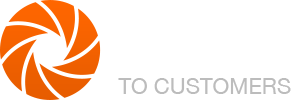
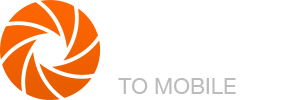
Website redesign

Changed region(s): [[0.51, 0.78, 0.99, 0.96]]

diff --git a/index.html b/index.html
@@ -1,31 +1,16 @@
 <!DOCTYPE html>
 <html lang="en">
 <head>
-  <!-- Google Analytics Content Experiment code -->
-  <script>function utmx_section(){}function utmx(){}(function(){var
-  k='62367427-5',d=document,l=d.location,c=d.cookie;
-  if(l.search.indexOf('utm_expid='+k)>0)return;
-  function f(n){if(c){var i=c.indexOf(n+'=');if(i>-1){var j=c.
-  indexOf(';',i);return escape(c.substring(i+n.length+1,j<0?c.
-  length:j))}}}var x=f('__utmx'),xx=f('__utmxx'),h=l.hash;d.write(
-  '<sc'+'ript src="'+'http'+(l.protocol=='https:'?'s://ssl':
-  '://www')+'.google-analytics.com/ga_exp.js?'+'utmxkey='+k+
-  '&utmx='+(x?x:'')+'&utmxx='+(xx?xx:'')+'&utmxtime='+new Date().
-  valueOf()+(h?'&utmxhash='+escape(h.substr(1)):'')+
-  '" type="text/javascript" charset="utf-8"><\/sc'+'ript>')})();
-  </script><script>utmx('url','A/B');</script>
-  <!-- End of Google Analytics Content Experiment code -->
-  
   <meta charset="utf-8">
-  <title>Shortcut - Getting on Your Customer&#39;s Smartphone</title>
+  <title>Shortcut - The Smarter Link</title>
   <meta name="viewport" content="width=device-width, initial-scale=1">
   <meta name="author" content="Shortcut Media AG Zurich">
-  <meta name="description" content="Shortcut is your mobile marketing platform that helps you to bridge the gap between your offline and online media. It provides you with all the possible technology to perfectly fit all your needs. Technologies include Image Recognition, iBeacons, QR Codes, Bar Codes, or NFC Tags. You can all manage easily via one online manager. Get started today, it's free.">
+  <meta name="description" content="Link to any device on any platform via any touch point and track usage.">
 
-  <meta property="og:title" content="Reach your customers on their smartphones" />
+  <meta property="og:title" content="The Smarter Link" />
   <meta property="og:url" content="http://shortcutmedia.com" />
-  <meta property="og:site_name" content="Getting on Your Customer&#39;s Smartphone"/>
-  <meta property="og:description" content="Shortcut is your mobile marketing platform that helps you to bridge the gap between your offline and online media. It provides you with all the possible technology to perfectly fit all your needs. Technologies include Image Recognition, iBeacons, QR Codes, Bar Codes, or NFC Tags. You can all manage easily via one online manager. Get started today, it's free." />
+  <meta property="og:site_name" content="Shortcut"/>
+  <meta property="og:description" content="Link to any device on any platform via any touch point and track usage." />
   <meta property="fb:app_id" content="176995982338808" />
   <meta property="og:type" content="website" />
   <meta property="og:image" content="http://shortcutmedia.com/assets/img/get_on_customers_smartphone.png" />
@@ -119,14 +104,16 @@
         <div class="container-fluid ">
           <div class="row">
             <div class="col-md-8 col-sm-8 col-xs-12">
-              <h1>Getting on Your Customer&#39;s Smartphone</h1>
+              <h1>The Smarter Link</h1>
             </div>
           </div> <!-- row -->
           <div class="row">
-            <div class="col-md-8 col-sm-10 col-xs-12">  
-              <p>
-                Shortcut helps you to make successful mobile marketing campaigns with one goal: <strong>to reach your customers on their smartphones.</strong>
-              </p>
+            <div class="col-md-8 col-sm-8 col-xs-12">  
+              <p>Link to any device on any platform via any touch point and track usage</p>
+            </div>
+            <div class="col-md-4 col-sm-4 col-xs-12">
+              <a id="video_button" href="//fast.wistia.net/embed/iframe/nh5y4t0mqv?popover=true" class="wistia-popover[height=360,playerColor=7b796a,width=640]"><img src="assets/img/video-button.png" width="125" height="50" alt="" /></a>
+              <script charset="ISO-8859-1" src="//fast.wistia.com/assets/external/popover-v1.js"></script>
             </div>
           </div> <!-- row -->
           <div class="row call-to-action">
@@ -146,7 +133,7 @@
           <div class="col-md-6 col-sm-6 col-xs-12">
             <h2>How it works</h2>
             <p>
-              Shorten the path to action and offer your customers muliple touch points to get to your content. Use <strong>short URLs</strong> for newsletters, social campaigns, and online ads. Take advantage of <strong>QR Codes</strong> and <strong>Image Recognition</strong> to connect print with mobile. Convince your customers to get to your location using <strong>iBeacons</strong>.
+              Link to any plattform and any app using only one link. Offer your customers multiple touch points to get to your content. Use <strong>short URLs</strong> for <strong>mobile deeplinking</strong> for newsletters, social campaigns, and online ads. Take advantage of <strong>QR Codes</strong>, <strong>Image Recognition</strong>, and <strong>iBeacon</strong> technology to connect offline with your digital content.
             </p>
             <p>
               Measure and analyze the impact of your campaigns or communication in a single online tool. This provides you with the <strong>best overview on all your marketing activities</strong>. 
@@ -165,37 +152,66 @@
       <div class="container-fluid">
         <div class="row">
           <div class="col-md-1 col-sm-2 col-xs-3">
-            <i class="fa fa-paper-plane fa-4x"></i>
+            <i class="fa fa-link fa-3x"></i>
           </div>
-          <div class="col-md-5 col-sm-10 col-xs-9">
-            <h3>Reach</h3>
-            <p>Reach customers with the same experience in your online and offline campaigns such as print ads, brochures, flyers, in-store iBeacons, Facebook ads, etc.</p>
-          </div>
-
-          <div class="col-md-1 col-sm-2 col-xs-3">
-            <i class="fa fa-download fa-4x"></i>
-          </div>
-          <div class="col-md-5 col-sm-10 col-xs-9">
-            <h3>Engage</h3>
-            <p>Engage your customers with customizable and mobile-optimized online experiences such as mobile coupons, app download pages, special offers, and store location.</p>
+          <div class="col-md-11 col-sm-10 col-xs-9">
+            <h3>Short URLs</h3>
+            <p>Every Shortcut is a unique short URL that you can use in all your online and email campaigns. Even when using mobile deep linking, you only need this one short URL. Here is an example <a href="http://scm.st/1d8dds4">http://scm.st/1d8dds4</a>. Short URLs also create small and visually attractive QR Codes.</p>
           </div>
         </div>
         
+        
         <div class="row">
           <div class="col-md-1 col-sm-2 col-xs-3">
-            <i class="fa fa-user-plus fa-4x"></i>
+            <i class="fa fa-server fa-3x"></i>
           </div>
-          <div class="col-md-5 col-sm-10 col-xs-9">
-            <h3>Convert</h3>
-            <p>Convert customers in your own smartphone app with our powerful SDK. It includes iBeacon technology, Image Recognition, and QR Code scanner. All in one single SDK.</p>
+          <div class="col-md-11 col-sm-10 col-xs-9">
+            <h3>Hosted Shortcuts</h3>
+            <p>All your Shortcuts are hosted and you can edit and redirect them in our <a href="http://manager.shortcutmedia.com/">online manager</a>. This gives you a maximum of flexibility to change and update your campaigns on the fly. There is no need to replace your offline touch points when something changes.</p>
           </div>
-          
+        </div>
+
+        
+        <div class="row">
           <div class="col-md-1 col-sm-2 col-xs-3">
-            <i class="fa fa-graduation-cap fa-4x"></i>
+            <i class="fa fa-mobile fa-4x"></i>
           </div>
-          <div class="col-md-5 col-sm-10 col-xs-9">
-            <h3>Learn</h3>
-            <p>Learn about the performance of your campaigns with real-time statistics. This includes insights about number of clicks and possibility of A/B testing for print ads.</p>
+          <div class="col-md-11 col-sm-10 col-xs-9">
+            <h3>Mobile Deep Linking</h3>
+            <p>Our Shortcuts allow for mobile deep linking. We recognize the device and link to a specific location within your mobile app. Drive user experience with mobile deep links. <a href="mailto:info@shortcutmedia.com?subject=Mobile%20Deep%20Linking&body=Hi,%20I%20would%20like%20to%20learn%20more%20about%20mobile%20deep%20linking.">Contact us</a> to learn more about mobile deep linking.</p>
+          </div>
+        </div>
+        
+        
+        <div class="row">          
+          <div class="col-md-1 col-sm-2 col-xs-3">
+            <i class="fa fa-picture-o fa-3x"></i>
+          </div>
+          <div class="col-md-11 col-sm-10 col-xs-9">
+            <h3>Image Recognition</h3>
+            <p>Connect your short URL with your visual content such as packages, brochures, etc. using image recognition. Use our app to recognize the images you enable. You can also use our <a href="http://shortcutmedia.com/sdk.html">SDK</a> in order to add image recognition to your existing app</p>
+          </div>
+        </div>
+        
+        
+        <div class="row">          
+          <div class="col-md-1 col-sm-2 col-xs-3">
+            <i class="fa fa-qrcode fa-4x"></i>
+          </div>
+          <div class="col-md-11 col-sm-10 col-xs-9">
+            <h3>QR Code</h3>
+            <p>With every Shortcut, we automatically create a QR Code for you. You can use this code - similar to image recognition - in your offline communications. Engage users offline to come to your site or to your mobile app via deep linking.</p>
+          </div>
+        </div>
+
+
+        <div class="row">
+          <div class="col-md-1 col-sm-2 col-xs-3">
+            <i class="fa fa-bar-chart fa-3x"></i>
+          </div>
+          <div class="col-md-11 col-sm-10 col-xs-9">
+            <h3>Analytics</h3>
+            <p>Learn about the success of your campaigns with real-time analytics. Dive into the numbers and run different experiments to learn more about the efficency of your communication. <a href="http://manager.shortcutmedia.com/shortcut_generator/url/new">Give it a try now</a>, it's free.</p>
           </div>
         </div>
       </div>
@@ -210,7 +226,7 @@
       <div class="container-fluid">
         <div class="row">
           <div class="col-md-12 col-sm-12 col-xs-12">
-            <h2>Who else is using Shortcut?</h2>
+            <h2>Who is using Shortcut?</h2>
             <p>
               Shortcut is the choice of numerous companies and freelancers - photographers, advertising agencies, publishing houses, global brands, etc. Shortcut is their favorite tool when it comes to customer interaction. From measuring the impact of a single Facebook post, to optimizing marketing strategies, it all goes via Shortcut.
             </p>

diff --git a/index_new.html b/index_new.html
@@ -2,15 +2,15 @@
 <html lang="en">
 <head>
   <meta charset="utf-8">
-  <title>Shortcut - Getting on Your Customer&#39;s Smartphone</title>
+  <title>Shortcut - The Smarter Link</title>
   <meta name="viewport" content="width=device-width, initial-scale=1">
   <meta name="author" content="Shortcut Media AG Zurich">
-  <meta name="description" content="Shortcut is your mobile marketing platform that helps you to bridge the gap between your offline and online media. It provides you with all the possible technology to perfectly fit all your needs. Technologies include Image Recognition, iBeacons, QR Codes, Bar Codes, or NFC Tags. You can all manage easily via one online manager. Get started today, it's free.">
+  <meta name="description" content="Link to any device on any platform via any touch point and track usage.">
 
-  <meta property="og:title" content="Reach your customers on their smartphones" />
+  <meta property="og:title" content="The Smarter Link" />
   <meta property="og:url" content="http://shortcutmedia.com" />
-  <meta property="og:site_name" content="Getting on Your Customer&#39;s Smartphone"/>
-  <meta property="og:description" content="Shortcut is your mobile marketing platform that helps you to bridge the gap between your offline and online media. It provides you with all the possible technology to perfectly fit all your needs. Technologies include Image Recognition, iBeacons, QR Codes, Bar Codes, or NFC Tags. You can all manage easily via one online manager. Get started today, it's free." />
+  <meta property="og:site_name" content="Shortcut"/>
+  <meta property="og:description" content="Link to any device on any platform via any touch point and track usage." />
   <meta property="fb:app_id" content="176995982338808" />
   <meta property="og:type" content="website" />
   <meta property="og:image" content="http://shortcutmedia.com/assets/img/get_on_customers_smartphone.png" />
@@ -108,8 +108,12 @@
             </div>
           </div> <!-- row -->
           <div class="row">
-            <div class="col-md-8 col-sm-10 col-xs-12">  
-              <p>Shortcut links to any device on any platform via any touch point and tracks usage</p>
+            <div class="col-md-8 col-sm-8 col-xs-12">  
+              <p>Link to any device on any platform via any touch point and track usage</p>
+            </div>
+            <div class="col-md-4 col-sm-4 col-xs-12">
+              <a id="video_button" href="//fast.wistia.net/embed/iframe/nh5y4t0mqv?popover=true" class="wistia-popover[height=360,playerColor=7b796a,width=640]"><img src="assets/img/video-button.png" width="125" height="50" alt="" /></a>
+              <script charset="ISO-8859-1" src="//fast.wistia.com/assets/external/popover-v1.js"></script>
             </div>
           </div> <!-- row -->
           <div class="row call-to-action">
@@ -129,7 +133,7 @@
           <div class="col-md-6 col-sm-6 col-xs-12">
             <h2>How it works</h2>
             <p>
-              Shorten the path to action and offer your customers muliple touch points to get to your content. Use <strong>short URLs</strong> for newsletters, social campaigns, and online ads. Take advantage of <strong>QR Codes</strong> and <strong>Image Recognition</strong> to connect print with mobile. Convince your customers to get to your location using <strong>iBeacons</strong>.
+              Link to any plattform and any app using only one link. Offer your customers multiple touch points to get to your content. Use <strong>short URLs</strong> for <strong>mobile deeplinking</strong> for newsletters, social campaigns, and online ads. Take advantage of <strong>QR Codes</strong>, <strong>Image Recognition</strong>, and <strong>iBeacon</strong> technology to connect offline with your digital content.
             </p>
             <p>
               Measure and analyze the impact of your campaigns or communication in a single online tool. This provides you with the <strong>best overview on all your marketing activities</strong>. 
@@ -222,7 +226,7 @@
       <div class="container-fluid">
         <div class="row">
           <div class="col-md-12 col-sm-12 col-xs-12">
-            <h2>Who else is using Shortcut?</h2>
+            <h2>Who is using Shortcut?</h2>
             <p>
               Shortcut is the choice of numerous companies and freelancers - photographers, advertising agencies, publishing houses, global brands, etc. Shortcut is their favorite tool when it comes to customer interaction. From measuring the impact of a single Facebook post, to optimizing marketing strategies, it all goes via Shortcut.
             </p>

diff --git a/about.html b/about.html
@@ -5,9 +5,9 @@
   <title>Shortcut - About</title>
   <meta name="viewport" content="width=device-width, initial-scale=1">
   <meta name="author" content="Shortcut Media AG Zurich">
-  <meta name="description" content="Shortcut is your mobile marketing platform that helps you to bridge the gap between your offline and online media. It provides you with all the possible technology to perfectly fit all your needs. Technologies include Image Recognition, iBeacons, QR Codes, Bar Codes, or NFC Tags. You can all manage easily via one online manager. Get started today, it's free.">
+  <meta name="description" content="Our mission is to serve you the best we can. And you want to be served from competent and happy staff. That's why we hire the best people wherever they are and wherever they feel happiest. Check out the team members to see from where they are working. Interested to join our team? We are hiring.">
 
-  <meta property="og:title" content="We are working together for a great mission" />
+  <meta property="og:title" content="Shortcut - About" />
   <meta property="og:url" content="http://shortcutmedia.com" />
   <meta property="og:site_name" content="Shortcut"/>
   <meta property="og:description" content="Our mission is to serve you the best we can. And you want to be served from competent and happy staff. That's why we hire the best people wherever they are and wherever they feel happiest. Check out the team members to see from where they are working. Interested to join our team? We are hiring." />

diff --git a/terms-and-conditions-german.html b/terms-and-conditions-german.html
@@ -7,7 +7,7 @@
   <meta name="author" content="Shortcut Media AG Zurich">
   <meta name="description" content="Shortcut is your mobile marketing platform that helps you to bridge the gap between your offline and online media. It provides you with all the possible technology to perfectly fit all your needs. Technologies include Image Recognition, iBeacons, QR Codes, Bar Codes, or NFC Tags. You can all manage easily via one online manager. Get started today, it's free.">
 
-  <meta property="og:title" content="We are working together for a great mission" />
+  <meta property="og:title" content="Shortcut - Allgemeine Geschäftsbedingungen" />
   <meta property="og:url" content="http://shortcutmedia.com" />
   <meta property="og:site_name" content="Shortcut"/>
   <meta property="og:description" content="Our mission is to serve you the best we can. And you want to be served from competent and happy staff. That's why we hire the best people wherever they are and wherever they feel happiest. Check out the team members to see from where they are working. Interested to join our team? We are hiring." />

diff --git a/terms-and-conditions-french.html b/terms-and-conditions-french.html
@@ -7,7 +7,7 @@
   <meta name="author" content="Shortcut Media AG Zurich">
   <meta name="description" content="Shortcut is your mobile marketing platform that helps you to bridge the gap between your offline and online media. It provides you with all the possible technology to perfectly fit all your needs. Technologies include Image Recognition, iBeacons, QR Codes, Bar Codes, or NFC Tags. You can all manage easily via one online manager. Get started today, it's free.">
 
-  <meta property="og:title" content="We are working together for a great mission" />
+  <meta property="og:title" content="Shortcut - Conditions générales de vente" />
   <meta property="og:url" content="http://shortcutmedia.com" />
   <meta property="og:site_name" content="Shortcut"/>
   <meta property="og:description" content="Our mission is to serve you the best we can. And you want to be served from competent and happy staff. That's why we hire the best people wherever they are and wherever they feel happiest. Check out the team members to see from where they are working. Interested to join our team? We are hiring." />

diff --git a/terms-and-conditions-english.html b/terms-and-conditions-english.html
@@ -7,7 +7,7 @@
   <meta name="author" content="Shortcut Media AG Zurich">
   <meta name="description" content="Shortcut is your mobile marketing platform that helps you to bridge the gap between your offline and online media. It provides you with all the possible technology to perfectly fit all your needs. Technologies include Image Recognition, iBeacons, QR Codes, Bar Codes, or NFC Tags. You can all manage easily via one online manager. Get started today, it's free.">
 
-  <meta property="og:title" content="We are working together for a great mission" />
+  <meta property="og:title" content="Shortcut - Terms and Conditions" />
   <meta property="og:url" content="http://shortcutmedia.com" />
   <meta property="og:site_name" content="Shortcut"/>
   <meta property="og:description" content="Our mission is to serve you the best we can. And you want to be served from competent and happy staff. That's why we hire the best people wherever they are and wherever they feel happiest. Check out the team members to see from where they are working. Interested to join our team? We are hiring." />

diff --git a/terms-and-conditions-italian.html b/terms-and-conditions-italian.html
@@ -7,7 +7,7 @@
   <meta name="author" content="Shortcut Media AG Zurich">
   <meta name="description" content="Shortcut is your mobile marketing platform that helps you to bridge the gap between your offline and online media. It provides you with all the possible technology to perfectly fit all your needs. Technologies include Image Recognition, iBeacons, QR Codes, Bar Codes, or NFC Tags. You can all manage easily via one online manager. Get started today, it's free.">
 
-  <meta property="og:title" content="We are working together for a great mission" />
+  <meta property="og:title" content="Shortcut - Condizioni generali" />
   <meta property="og:url" content="http://shortcutmedia.com" />
   <meta property="og:site_name" content="Shortcut"/>
   <meta property="og:description" content="Our mission is to serve you the best we can. And you want to be served from competent and happy staff. That's why we hire the best people wherever they are and wherever they feel happiest. Check out the team members to see from where they are working. Interested to join our team? We are hiring." />

diff --git a/privacy.html b/privacy.html
@@ -7,7 +7,7 @@
   <meta name="author" content="Shortcut Media AG Zurich">
   <meta name="description" content="Shortcut is your mobile marketing platform that helps you to bridge the gap between your offline and online media. It provides you with all the possible technology to perfectly fit all your needs. Technologies include Image Recognition, iBeacons, QR Codes, Bar Codes, or NFC Tags. You can all manage easily via one online manager. Get started today, it's free.">
 
-  <meta property="og:title" content="We are working together for a great mission" />
+  <meta property="og:title" content="Shortcut - Privacy Policy" />
   <meta property="og:url" content="http://shortcutmedia.com" />
   <meta property="og:site_name" content="Shortcut"/>
   <meta property="og:description" content="Our mission is to serve you the best we can. And you want to be served from competent and happy staff. That's why we hire the best people wherever they are and wherever they feel happiest. Check out the team members to see from where they are working. Interested to join our team? We are hiring." />

diff --git a/app.html b/app.html
@@ -2,12 +2,12 @@
 <html lang="en">
 <head>
   <meta charset="utf-8">
-  <title>Shortcut - SDK</title>
+  <title>Shortcut - Shortcut Reader App</title>
   <meta name="viewport" content="width=device-width, initial-scale=1">
   <meta name="author" content="Shortcut Media AG Zurich">
   <meta name="description" content="Integrate Shortcut in your own app!">
 
-  <meta property="og:title" content="Shortcut - SDK for Image Recognition, QR Code, and iBeacon Scanner" />
+  <meta property="og:title" content="Shortcut - Shortcut Reader App" />
   <meta property="og:url" content="http://shortcutmedia.com/request_demo_keys.html" />
   <meta property="og:site_name" content="The fastest way from offline to online"/>
   <meta property="og:description" content="With the Android and iOS SDK from Shortcut, you can create your own Image Recognition, QR Code Reader, and iBeacon App in less than one minute. Get access today for free." />

diff --git a/request_demo_keys.html b/request_demo_keys.html
@@ -8,7 +8,7 @@
   <meta name="description" content="Link your offline world to the Internet with Shortcut
   Valuable mobile experiences for publishers and advertisers. Get access to the Shortcut manager and create your own Shortcuts in seconds.">
 
-  <meta property="og:title" content="Shortcut - SDK for Image Recognition, QR Code, and iBeacon Scanner" />
+  <meta property="og:title" content="Shortcut - Developer" />
   <meta property="og:url" content="http://shortcutmedia.com/request_demo_keys.html" />
   <meta property="og:site_name" content="The fastest way from offline to online"/>
   <meta property="og:description" content="With the Android and iOS SDK from Shortcut, you can create your own Image Recognition, QR Code Reader, and iBeacon App in less than one minute. Get access today for free." />

diff --git a/touch_points.html b/touch_points.html
@@ -7,7 +7,7 @@
   <meta name="author" content="Shortcut Media AG Zurich">
   <meta name="description" content="Integrate Shortcut in your own app!">
 
-  <meta property="og:title" content="Shortcut - Different touch points to link to your content such as QR Codes, Image Recognition, and iBeacons" />
+  <meta property="og:title" content="Shortcut - Touch Points" />
   <meta property="og:url" content="http://shortcutmedia.com/request_demo_keys.html" />
   <meta property="og:site_name" content="The fastest way from offline to online"/>
   <meta property="og:description" content="With the Android and iOS SDK from Shortcut, you can create your own Image Recognition, QR Code Reader, and iBeacon App in less than one minute. Get access today for free." />

diff --git a/request_demo_keys_success.html b/request_demo_keys_success.html
@@ -7,7 +7,7 @@
   <meta name="author" content="Shortcut Media AG Zurich">
   <meta name="description" content="Integrate Shortcut in your own app.">
 
-  <meta property="og:title" content="Shortcut - SDK for Image Recognition, QR Code, and iBeacon Scanner" />
+  <meta property="og:title" content="Shortcut - SDK" />
   <meta property="og:url" content="http://shortcutmedia.com/request_demo_keys.html" />
   <meta property="og:site_name" content="Reach your customers on their smartphones"/>
   <meta property="og:description" content="With the Android and iOS SDK from Shortcut, you can create your own Image Recognition, QR Code Reader, and iBeacon App in less than one minute. Get access today for free." />
